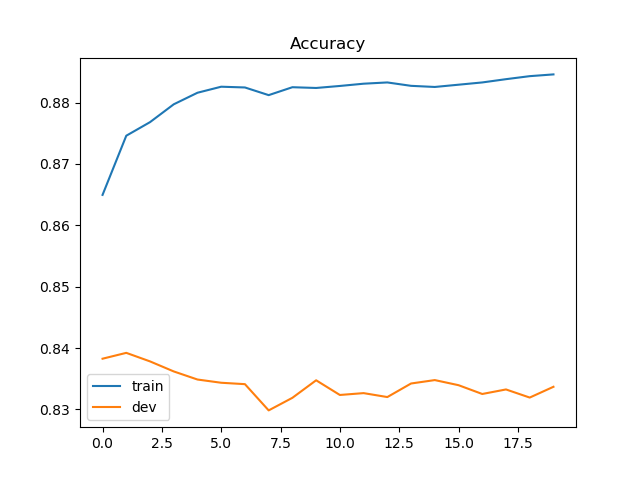
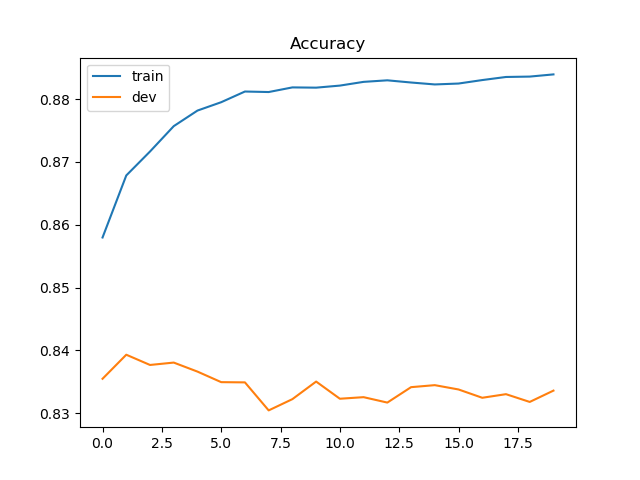
update output

diff --git a/logistic.py b/logistic.py
@@ -132,7 +132,7 @@ def _gradient(X, Y_label, w, b):
 # Initial weights and bias
 w = np.zeros((data_dim, 1))
 b = np.float(0.)
-w_grad_sum = np.full((data_dim, 1), 0.1)  # avoid divided by zeros
+w_grad_sum = np.full((data_dim, 1), 1e-8)  # avoid divided by zeros
 b_grad_sum = np.float(1e-8)
 
 # Some parameters for training
